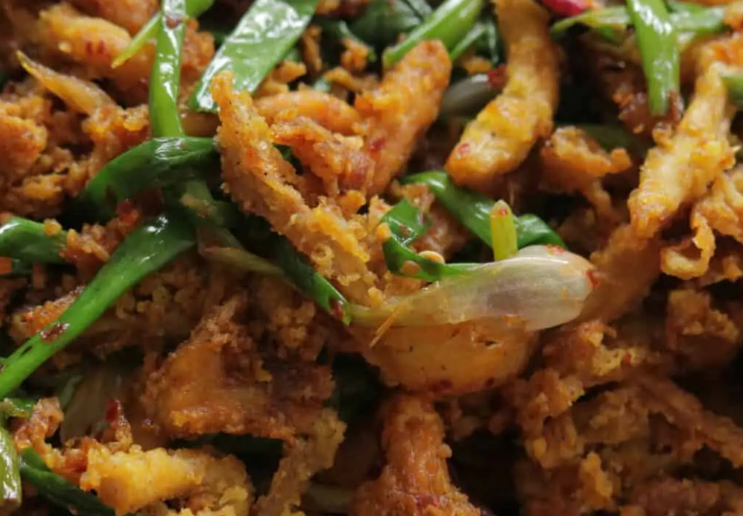
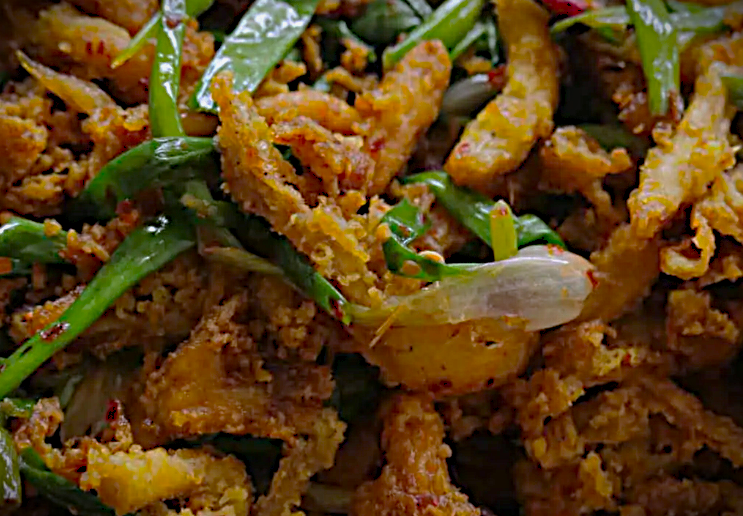
Fixed changes and updated project -n

diff --git a/src/App.jsx b/src/App.jsx
@@ -13,6 +13,7 @@ import {
   Info
 } from 'lucide-react';
 import biteImage from './assets/bite.png';
+import snackImage from './assets/snack.png';
 
 // --- Mock Data ---
 const RECIPES = [
@@ -27,6 +28,7 @@ const RECIPES = [
     calories: 450,
     difficulty: "Easy",
     image: biteImage,
+    videoLink: "https://youtu.be/OPnChfoP9vo?si=IcHXMeTyp0zXiXHm",
     icon: "🍄",
     ingredients: [
       "බිම්මල් 🍄 - 200g",
@@ -61,37 +63,41 @@ const RECIPES = [
       "අවශ්ය පරිදි ලුණු එක් කර ගන්න",
     ]
   },
-  /*{
+  {
     id: 2,
-    title: "Garlic Butter Stuffed Portobellos",
-    description: "Juicy portobello caps stuffed with a savory mix of spinach, cheese, and breadcrumbs.",
-    category: "Appetizer",
-    prepTime: "15 min",
-    cookTime: "20 min",
+    title: "Mushroom Snack",
+    description: "Crispy රසට බිම්මල්",
+    category: "සුළු ආහාර",
+    prepTime: "විනාඩි 10",
+    cookTime: "විනාඩි 10",
     servings: 4,
     difficulty: "Easy",
     calories: 220,
-    imageColor: "bg-orange-100",
+    image:snackImage,
+    videoLink: "https://youtu.be/C9p5_4jB8zY?si=tFtHl-okhbYG8yyB",
     icon: "🥘",
     ingredients: [
-      "4 large Portobello mushrooms, stems removed",
-      "3 tbsp butter, melted",
-      "2 cloves garlic, minced",
-      "1 cup fresh spinach, chopped",
-      "1/2 cup mozzarella cheese",
-      "1/4 cup panko breadcrumbs",
-      "1 tbsp parsley"
+      "බිම්මල් 🍄 - 200g",
+      "පාන් පිටි 🍞 - මේස හැදි 2 ",
+      "ඉරිඟු පිටි 🌽 - මේස හැදි 2",
+      "කැලි මිරිස්🌶 - මේස හැදි 1 ",
+      "ගම්මිරිස් කුඩු ⚫ - තේ හැදි 1",
+      "තලා ගත් ඉගුරු සුදු ලූණු 🫚🧄 - මේස හැදි 1",
+      "හොදින් තලා ගත් ලොකු ලූණු 🧅 - මේස හැදි 2",
+      "කහ කුඩු 🌿- තේ හැදි 1/4 ",
+      "සෝයා සෝස් 🍶 - තේ හැදි  1 ",
+      "තක්කාලි සෝස් 🍅 - මේස හැදි  1",
+      "ලුණු 🧂",
     ],
     instructions: [
-      "Preheat oven to 400°F (200°C).",
-      "Brush mushroom caps with garlic butter and place gill-side up on baking sheet.",
-      "Mix spinach, cheese, and breadcrumbs in a bowl.",
-      "Fill mushroom caps with the mixture.",
-      "Bake for 15-20 minutes until cheese is bubbly and mushrooms are tender.",
-      "Garnish with parsley and serve warm."
+      "බිම්මල් ලුණු වතුරෙන් සෝදා හොඳින් වතුර ඉවත් කර ගන්න.",
+      "බෝල් එකක් ගෙන පාන් පිටි මේස හැදි 2ක්, ඉරිඟු පිටි මේස හැදි 2ක්, අවශ්ය නම් බිත්තර 1ක්, කැලි මිරිස් මේස හැදි 1ක්, ගම්මිරිස් කුඩු තේ හැදි 1ක්, තලා ගත් ඉගුරු සුදු ලූණු තේ හැදි 1ක්, තලා ගත් ලොකු ලූණු මේස හැදි 2ක්, කහ කුඩු තේ හැදි 1/4ක්, සෝයා සෝස් තේ හැදි 1ක්, තක්කාලි සෝස් මේස හැදි 1ක්, ලුණු ස්වල්පයක් එකතු කර, වතුර එකතු කර හොඳින් මිශ්ර කර ගන්න (මිශ්රණය උකු විය යුතුයි).",
+      "හොඳින් වතුර ඉවත් කරගත් බිම්මල් පිටි මිශ්රණයෙන් තවරා ගන්න.",
+      "තච්චියට තෙල් දමා සාමාන්ය ගින්දරින් හොඳින් බැඳගන්න.",
+
     ]
   },
-  {
+  /*{
     id: 3,
     title: "Crispy Enoki Mushroom Pancakes",
     description: "Crunchy, golden bites perfect for dipping. A popular East Asian snack.",
@@ -375,7 +381,7 @@ const RecipeDetail = ({ recipe, onBack, isFavorite, toggleFavorite }) => (
             className="absolute inset-0 w-full h-full object-cover"
           />
         )}
-        {!recipe.image && (
+        {(recipe.image || !recipe.image) && (
           <div className="absolute inset-0 bg-gradient-to-b from-black/500 via-black/700 to-black/900"></div>
         )}
         <div className="relative z-10">
@@ -426,9 +432,13 @@ const RecipeDetail = ({ recipe, onBack, isFavorite, toggleFavorite }) => (
           <div className="bg-amber-50 p-6 rounded-2xl border border-amber-100">
              <h4 className="font-bold text-amber-900 mb-2 text-sm uppercase tracking-wider">Chef's Tip</h4>
              <p className="text-amber-800 text-sm italic">
-               <a href="https://youtu.be/OPnChfoP9vo?si=IcHXMeTyp0zXiXHm" target="_blank" rel="noopener noreferrer">
-                👉 Watch the video tutorial here
-               </a>
+               {recipe.videoLink ? (
+                 <a href={recipe.videoLink} target="_blank" rel="noopener noreferrer" className="hover:text-amber-600 transition-colors">
+                   👉 Watch the video tutorial here
+                 </a>
+               ) : (
+                 "For the best texture, never wash mushrooms with water! Instead, gently wipe them clean with a damp cloth or a brush."
+               )}
              </p>
           </div>
         </div>
@@ -532,7 +542,7 @@ export default function App() {
             {/* View Title */}
             <div className="mb-8 text-center">
                <h2 className="text-3xl font-bold text-stone-800">
-                 {view === 'favorites' ? 'Your Favorite Recipes' : 'Latest Creations'}
+                 {view === 'favorites' ? 'Your Favorite Recipes' : 'බිම්මල් වට්ටෝරු'}
                </h2>
                <div className="w-16 h-1 bg-amber-500 mx-auto mt-4 rounded-full"></div>
             </div>
